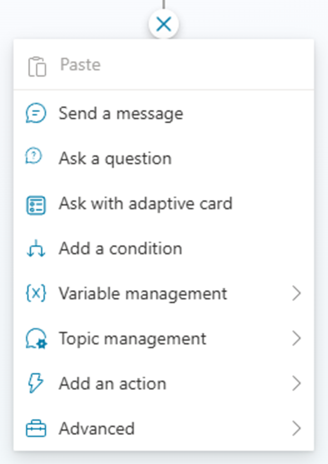
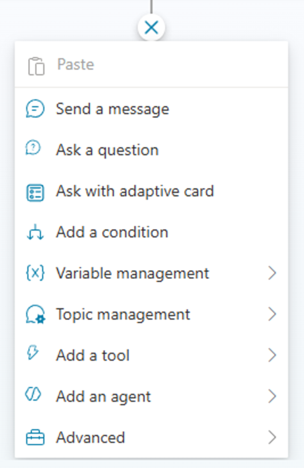
Updated UI/UX for lab MCS2

diff --git a/docs/pages/make/copilot-studio/02-topics.md b/docs/pages/make/copilot-studio/02-topics.md
@@ -37,26 +37,29 @@ In this lab you will learn:
 
 In this first exercise you are going to enable the agent that you created in [Lab MCS1](../01-first-agent){target=_blank} to use Orchestration based on Generative AI, which is a new feature under preview at the time of this writing.
 
-### Step 1: Enabling Orchestration based on generative AI
+### Step 1: Understanding generative AI orchestration
 
 One important feature of an agent made with Copilot Studio, is generative orchestration. With generative orchestration, your agent can choose the best knowledge base, topics, and actions to use to interact with the user and answer to the user's queries, or to respond to event triggers. 
 
-By default agents use classic orchestration, which means that an agent responds to users by triggering a topic whose trigger phrases match most closely the user's query. With generative orchestration, Copilot Studio understands the intent of the user processing the prompt provided by the user in natural language and determines the best item to trigger. 
+Nowadays and by default, Copilot Studio agents use generative AI orchestration, which means that Copilot Studio understands the intent of the user processing the prompt provided by the user in natural language and determines the best item to trigger. If you like, you can revert the agent back to classic orchestration, where an agent responds to users by triggering a topic whose trigger phrases match most closely the user's query.
 
-!!! pied-piper "Disclaimer"
-    Enabling generative orchestration can impact how billing is calculated. Learn more about [billing for generative mode](https://learn.microsoft.com/en-us/microsoft-copilot-studio/analytics-billed-sessions){target=_blank}. There are key differences between classic and generative orchestration, such as how knowledge is searched, and the supported data sources. Before turning on generative mode for an existing agent, read about the [known limitations](https://learn.microsoft.com/en-us/microsoft-copilot-studio/advanced-generative-actions#known-limitations-for-generative-orchestration){target=_blank}.
+In Copilot Studio, you can also enable **Deep reasoning** (which is a preview feature) to enable advanced reasoning for AI actions.
 
-To enable generative orchestration, open a browser and, using the work account of your target Microsoft 365 tenant, go to [https://copilotstudio.microsoft.com](https://copilotstudio.microsoft.com){target=_blank} to start using Microsoft Copilot Studio.
+To configure orchestration and deep reasoning, open a browser and, using the work account of your target Microsoft 365 tenant, go to [https://copilotstudio.microsoft.com](https://copilotstudio.microsoft.com){target=_blank} to start using Microsoft Copilot Studio.
 
 Select to view the list of 1⃣ **Agents** and then 2⃣ edit the agent that you created in the previous Lab MCS1.
 
 ![The interface of Microsoft Copilot Studio when browsing the agents and selecting one item to edit.](../../../assets/images/make/copilot-studio-02/edit-agent-01.png)
 
-In the **Overview** tab enable the toggle with name **Orchestration** like illustrated in the following screenshot.
+Select the **Settings** command in the upper right corner of the screen like illustrated in the following screenshot.
 
-![The interface of Microsoft Copilot Studio with the generative orchestration enabled and highlighted.](../../../assets/images/make/copilot-studio-02/generative-orchestration-01.png)
+![The interface of Microsoft Copilot Studio with the "Settings" command highlighted.](../../../assets/images/make/copilot-studio-02/edit-settings-01.png)
 
-It usually takes a while to enable the generative orchestration. Once the setting is applied, publish the agent to confirm the changes.
+The first section of settings is the **Orchestration** one, from where you can choose between **generative AI orchestration** and **classic orchestration**, as well as you can enable **Deep reasoning**. It usually takes a while to update the orchestration settings. Once the setting is applied, close the settings window and publish the agent to confirm the changes.
+
+![The interface of Microsoft Copilot Studio with the "Settings" command highlighted.](../../../assets/images/make/copilot-studio-02/generative-orchestration-01.png)
+
+In this lab you stick with **generative AI orchestration**, to enjoy the beauty of generative AI, and you don't need to enable **Deep reasoning**.
 
 <cc-end-step lab="mcs2" exercise="1" step="1" />
 
@@ -96,7 +99,8 @@ Select the **+** button in the middle of the screen to add new actions or steps 
 - Add a condition: to add branches to the topic based on comparison between variables and/or constant values.
 - Variable management: to manage variables, which can be scoped at topic level, global, system, or environment.
 - Topic management: to manage the lifecycle of the current topic.
-- Add an action: to consume external actions like Power Automate flows, custom connectors, or other agents in a multi-agent scenario.
+- Add an tool: to consume external actions like Power Automate flows, custom connectors, MCP tools, etc.
+- Add an agent: to add an agent in a multi-agent scenario.
 - Advanced: to provide advanced capabilities like consuming an external HTTP REST API, using generative answers, sending events or activities, etc.
 
 ![The menu to select actions to add to the current topic. There available options are: send a message, ask a question, ask with adaptive card, add a condition, variable management, topic management, add an action, advanced.](../../../assets/images/make/copilot-studio-02/create-topic-single-turn-03.png)
